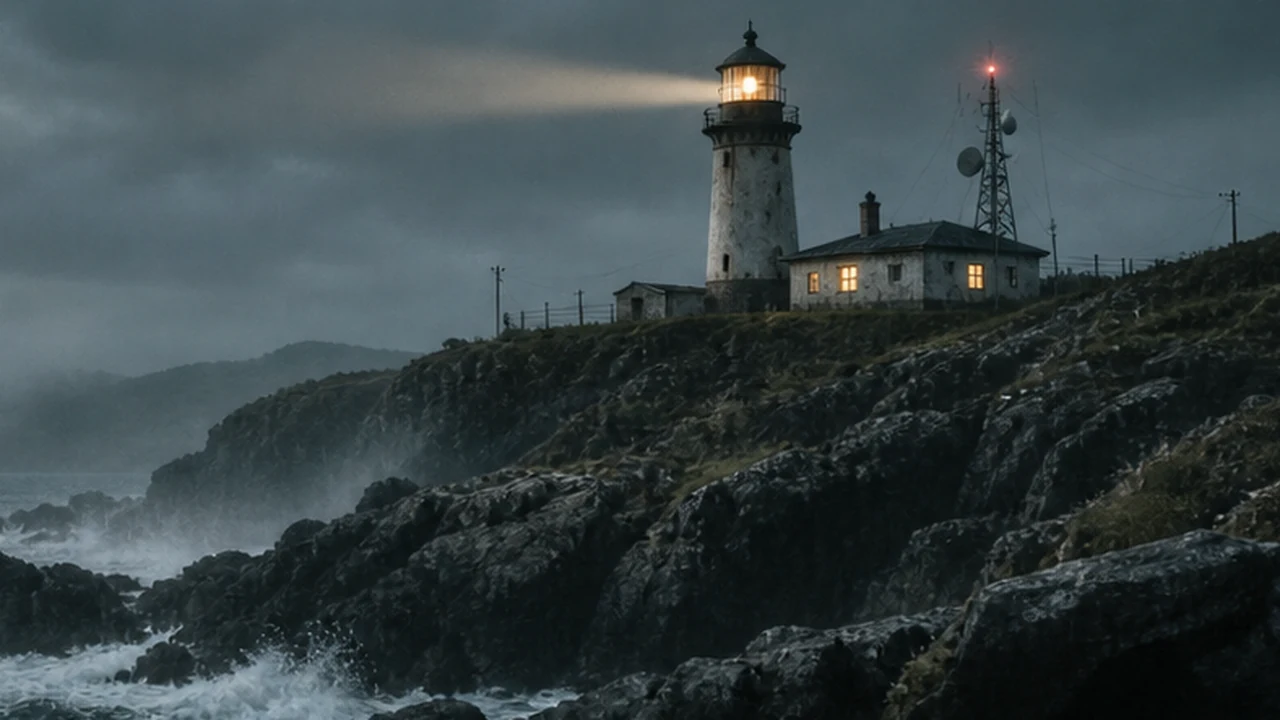
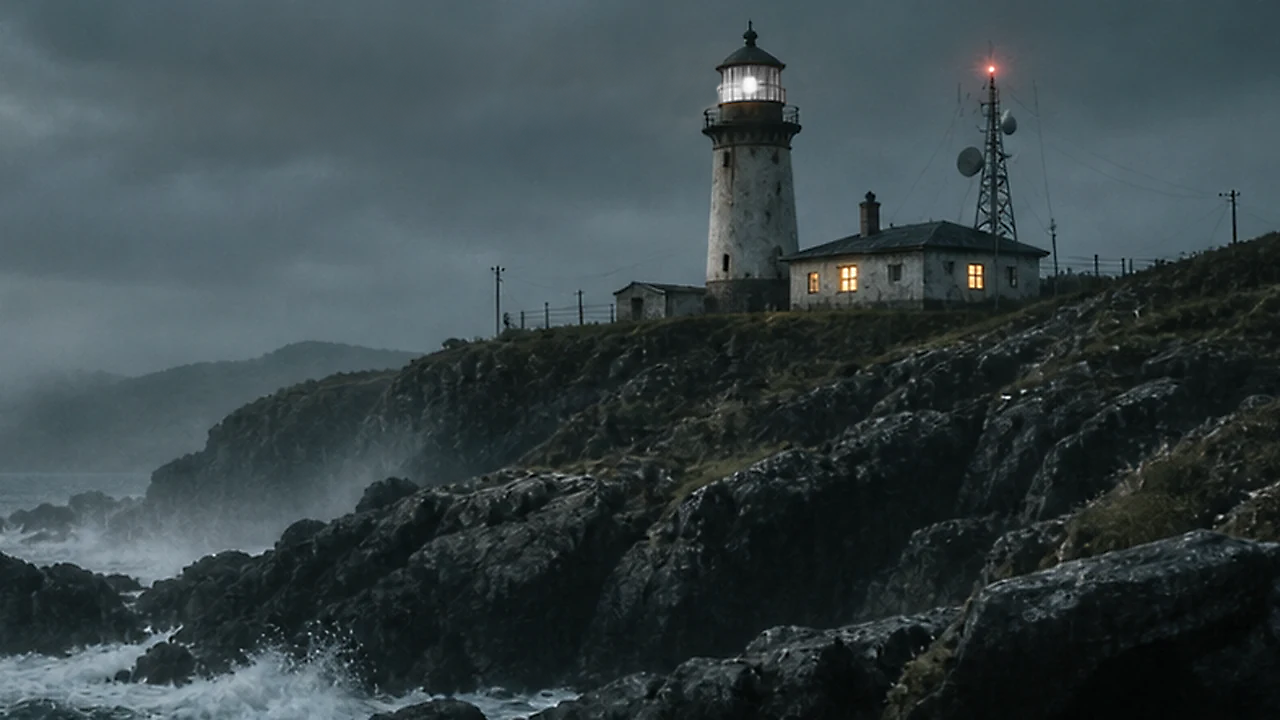
fix(dead-air): remove beam effects and update scene artwork

Changed region(s): [[0.25, 0.0611, 0.625, 0.1833]]

diff --git a/src/design-studies/dead-air/README.md b/src/design-studies/dead-air/README.md
@@ -23,9 +23,9 @@ The fictional North Coast Broadcasting System (NCBS) is framed as a decommission
 - Manual FM tuning from 87.5 to 108.0 MHz in 0.1 MHz increments; no developer-only channel presets or interference-strength control.
 - Three automatically detected signal states, `normal` (87.6 MHz), `interference` (91.3 MHz), and `unknown` (103.7 MHz). Other frequencies report `NO CARRIER` rather than triggering story events.
 - Fixed interference values of 15%, 60%, and 91% respectively; UNKNOWN darkens the camera image by ~30% relative to the previous implementation.
-- The inaccurate, added lighthouse beam and beacon have been removed. The original photographed light remains untouched.
+- The inaccurate artificial lighthouse beam has been removed. CAM 01 now uses the owner-corrected scene image without the original baked-in beam.
 - Three independent, tightly masked photographic window passes on CAM 01 switch between the original warm-color glazing and a desaturated dark variant. The alpha-masked WebP crops align with the 1280×720 scene master; no artificial light dots or full-scene grayscale effects are used. Surrounding bloom in the concept image is still embedded and cannot be fully removed without a genuinely unlit master.
-- CAM 01 also includes a muted lantern lens pass (subtle, slow breathing in NORMAL; short outages in INTERFERENCE/UNKNOWN) and a separate obstacle-light mask on the radio mast (regular red flash, then irregular or interrupted flashes by signal state). Both use exactly aligned photographic crops rather than artificial dots or light beams. The lighthouse beam itself remains embedded in the still; a truly rotating beam requires a clean, unlit master and a separate beam layer.
+- CAM 01 also includes a muted lantern lens pass (subtle, slow breathing in NORMAL; short outages in INTERFERENCE/UNKNOWN) and a separate obstacle-light mask on the radio mast (regular red flash, then irregular or interrupted flashes by signal state). Both use exactly aligned photographic crops rather than artificial dots or light beams. The owner-corrected image no longer contains the original beam. A physically convincing rotating light could be developed later from this cleaner master.
 - Two selectable sources and the pause button share one compact receiver row under the frequency dial; the monitor gains back the former toolbar height. The video loads only when requested.
 - `deadair:frequencychange` and `deadair:signalacquired` events on `window` provide `{ frequency, channel, reception, interference }` for future Web Audio and story triggers. The latter fires only upon acquiring a new named station. No sound is played or fetched yet.
 - A ±0.35 MHz capture range makes manual station scanning manageable on touch displays, while the tuner still displays the actual frequency in 0.1 MHz steps.
@@ -60,7 +60,7 @@ dead-air/
 │   ├── station-mark.svg    # Editable broadcast tower signet
 │   ├── favicon.svg         # Reduced signet for browser tabs
 │   ├── coast-loop.mp4      # Optimized short footage excerpt, video only
-│   ├── scene-poster.webp   # AI-generated art-direction scene crop
+│   ├── scene-poster.webp   # Owner-corrected scene without the original beam
 │   ├── window-off-a.webp   # Precisely masked desaturated left window
 │   ├── window-off-b.webp   # Precisely masked desaturated centre window
 │   ├── window-off-c.webp   # Precisely masked desaturated right window
@@ -75,7 +75,7 @@ Angular only lists the study via `src/app/core/data/design-studies.ts`; it does 
 ## Assets and credits
 
 - **Video:** [Pexels — Sea Waves Crashing on Rocky Coast (#5161508)](https://www.pexels.com/video/sea-waves-crashing-on-rocky-coast-5161508/). Supplied by the project owner, cropped in time, downscaled to 1280×720, converted to 24 fps, stripped of audio, and H.264 encoded for the prototype. Source availability and licensing must be checked prior to any external reuse; see [Pexels License](https://www.pexels.com/license/).
-- **Art direction:** AI-generated DEAD//AIR scene concept from the project's design phase. `scene-poster.webp` and `preview.webp` are crops of the concept board, not photographic evidence of a real station.
+- **Art direction:** AI-generated DEAD//AIR scene concept from the project's design phase. `scene-poster.webp` is the owner-corrected master without the baked-in lighthouse beam; `preview.webp` is the existing archive crop. Neither depicts a real station.
 - **Typography:** Reuses `BarlowCondensed-Black.ttf` already shipped in the portfolio's existing `/assets/fonts/studies/` directory; falls back to system fonts. No new external font or third-party library is loaded.
 
 ## Follow-up work
